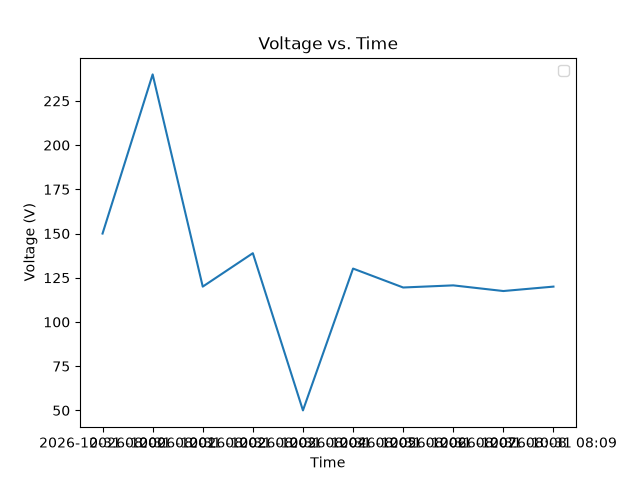
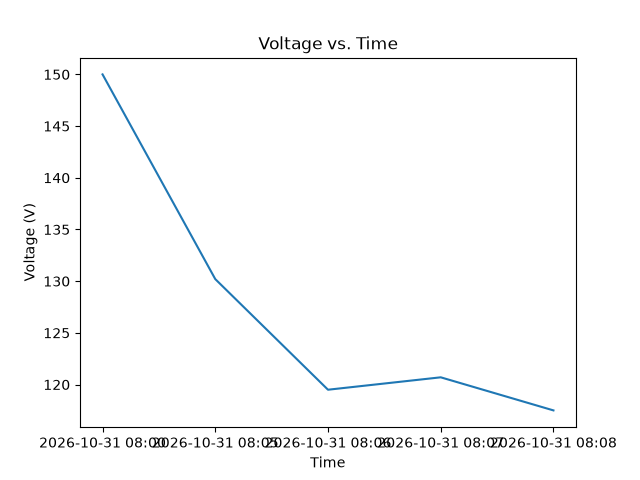
Check-in before error log merge

diff --git a/main.py b/main.py
@@ -6,7 +6,8 @@ from analysis.visualisation import simple_plot
 if __name__ == '__main__':
     #TODO: Add file picker
     #Works in normal directory
-    path = Path(__file__).parent.resolve() / "sample-input-data/basic_current_voltage.csv"
+    #path = Path(__file__).parent.resolve() / "sample-input-data/basic_current_voltage.csv"
+    path = Path(__file__).parent.resolve() / "sample-input-data/basic_current_voltage_missing.csv"
     
     #Only works with VSCodroid
     path_good = "/data/user/0/com.vscodroid/files/home/projects/Portfolio-python-analyser/sample-input-data/basic_current_voltage.csv"
@@ -21,7 +22,7 @@ if __name__ == '__main__':
     #path = str(os.system('pwd'))+"/sample-input-data/basic_current_voltage.csv"
     print(path)
     threshold = 1.0#TODO: Make configurable
-    raw_data, errors = csv_parsing.csv_parser.read_csv(path_header)
+    raw_data, errors = csv_parsing.csv_parser.read_csv(path)
     if raw_data is not None and len(raw_data) > 0:
         data = data_overview(raw_data, threshold)
         print_summary_report(data, errors, threshold)

diff --git a/analysis/visualisation.py b/analysis/visualisation.py
@@ -5,6 +5,6 @@ def simple_plot(x,x_label, y, y_label, title):
     plotter.xlabel(x_label)
     plotter.ylabel(y_label)
     plotter.title(title)
-    plotter.savefig("volt_time_plot.png")
+    plotter.savefig("./reports/volt_time_plot.png")
     plotter.legend(y_label)#Is an array of each line that is plotted    plotter.savefig("reports/volt_time_plot.png")
     plotter.show()
